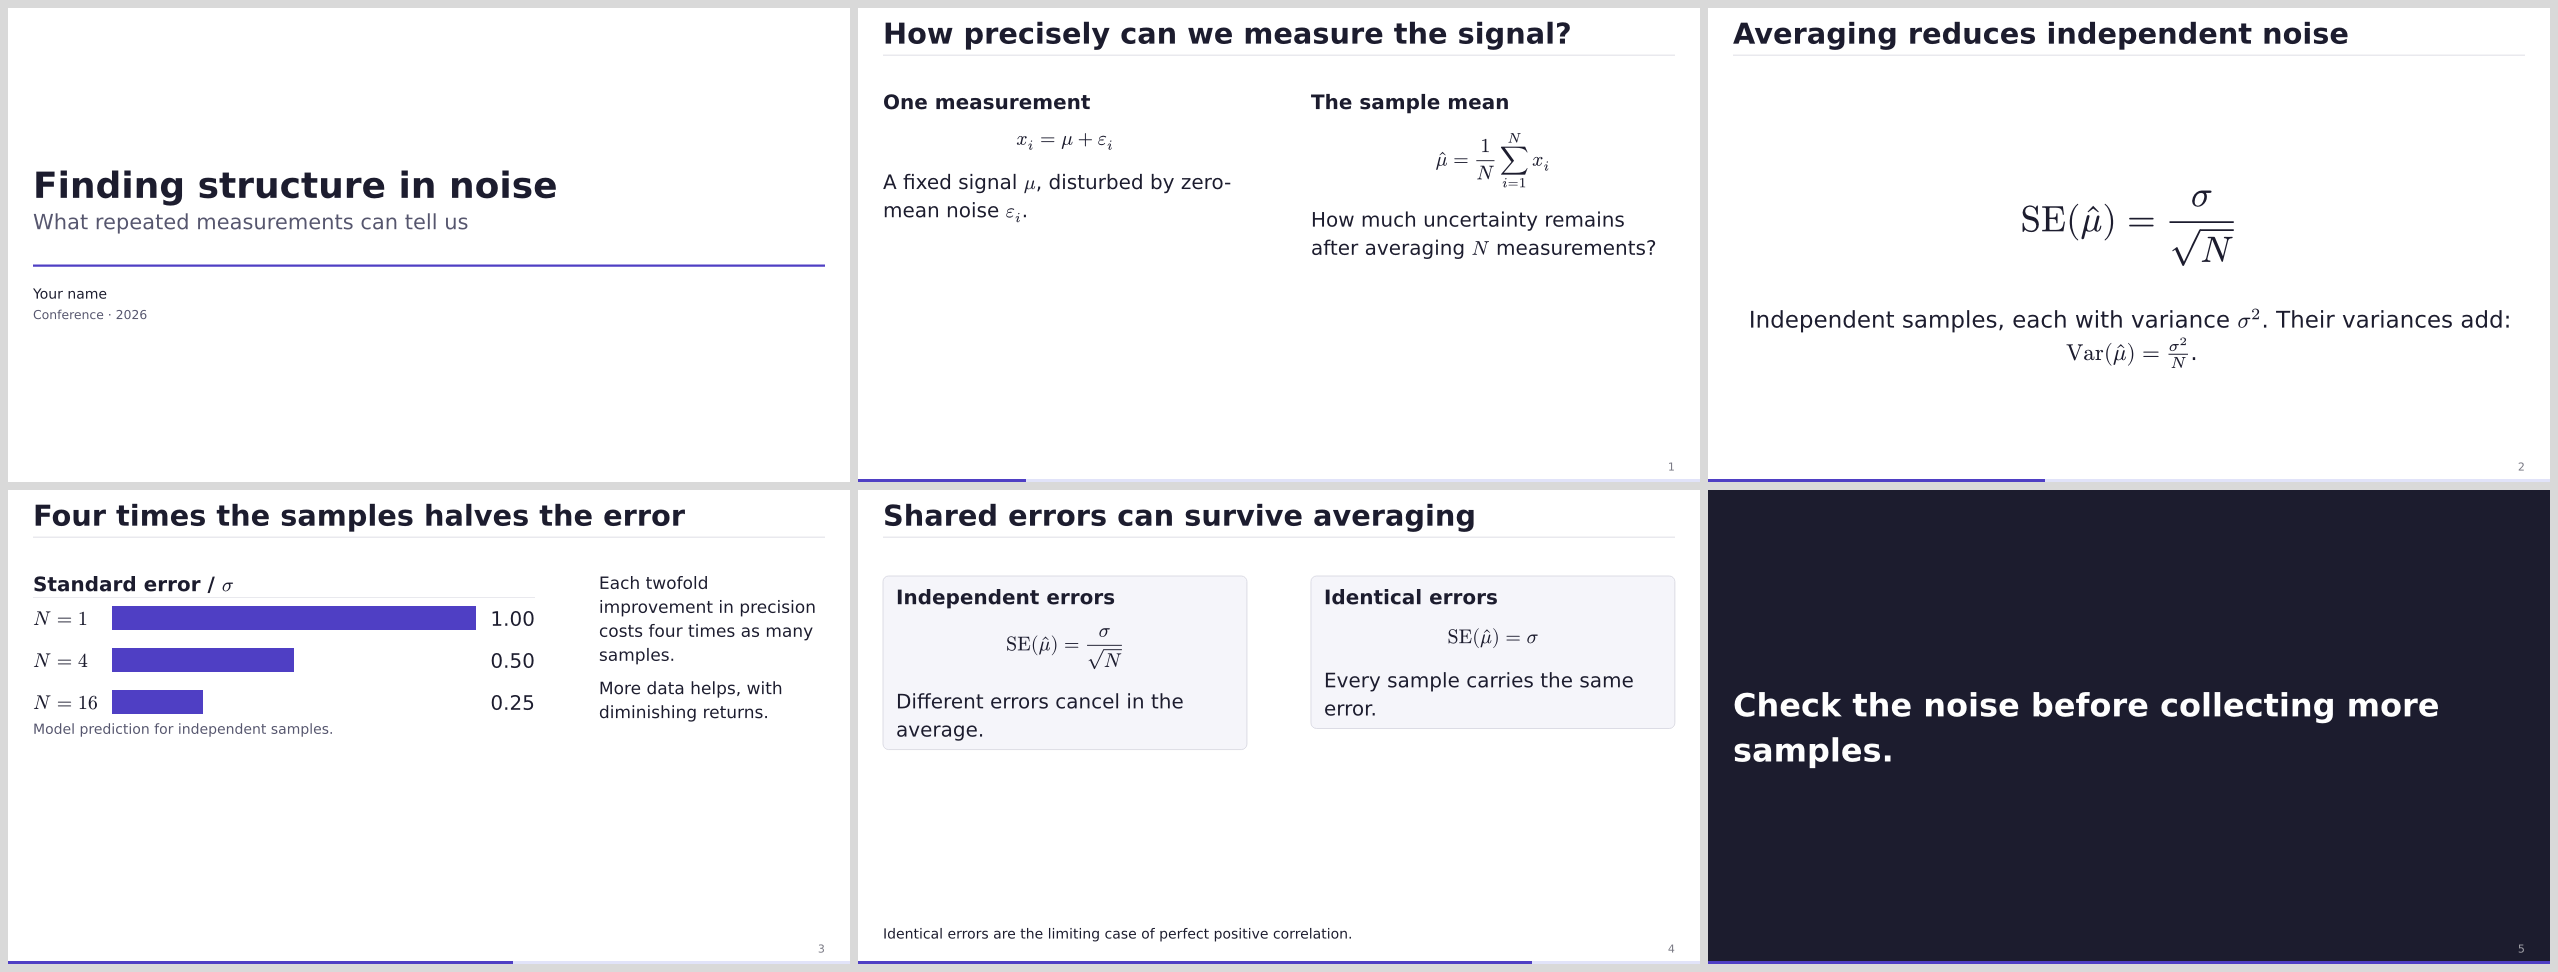
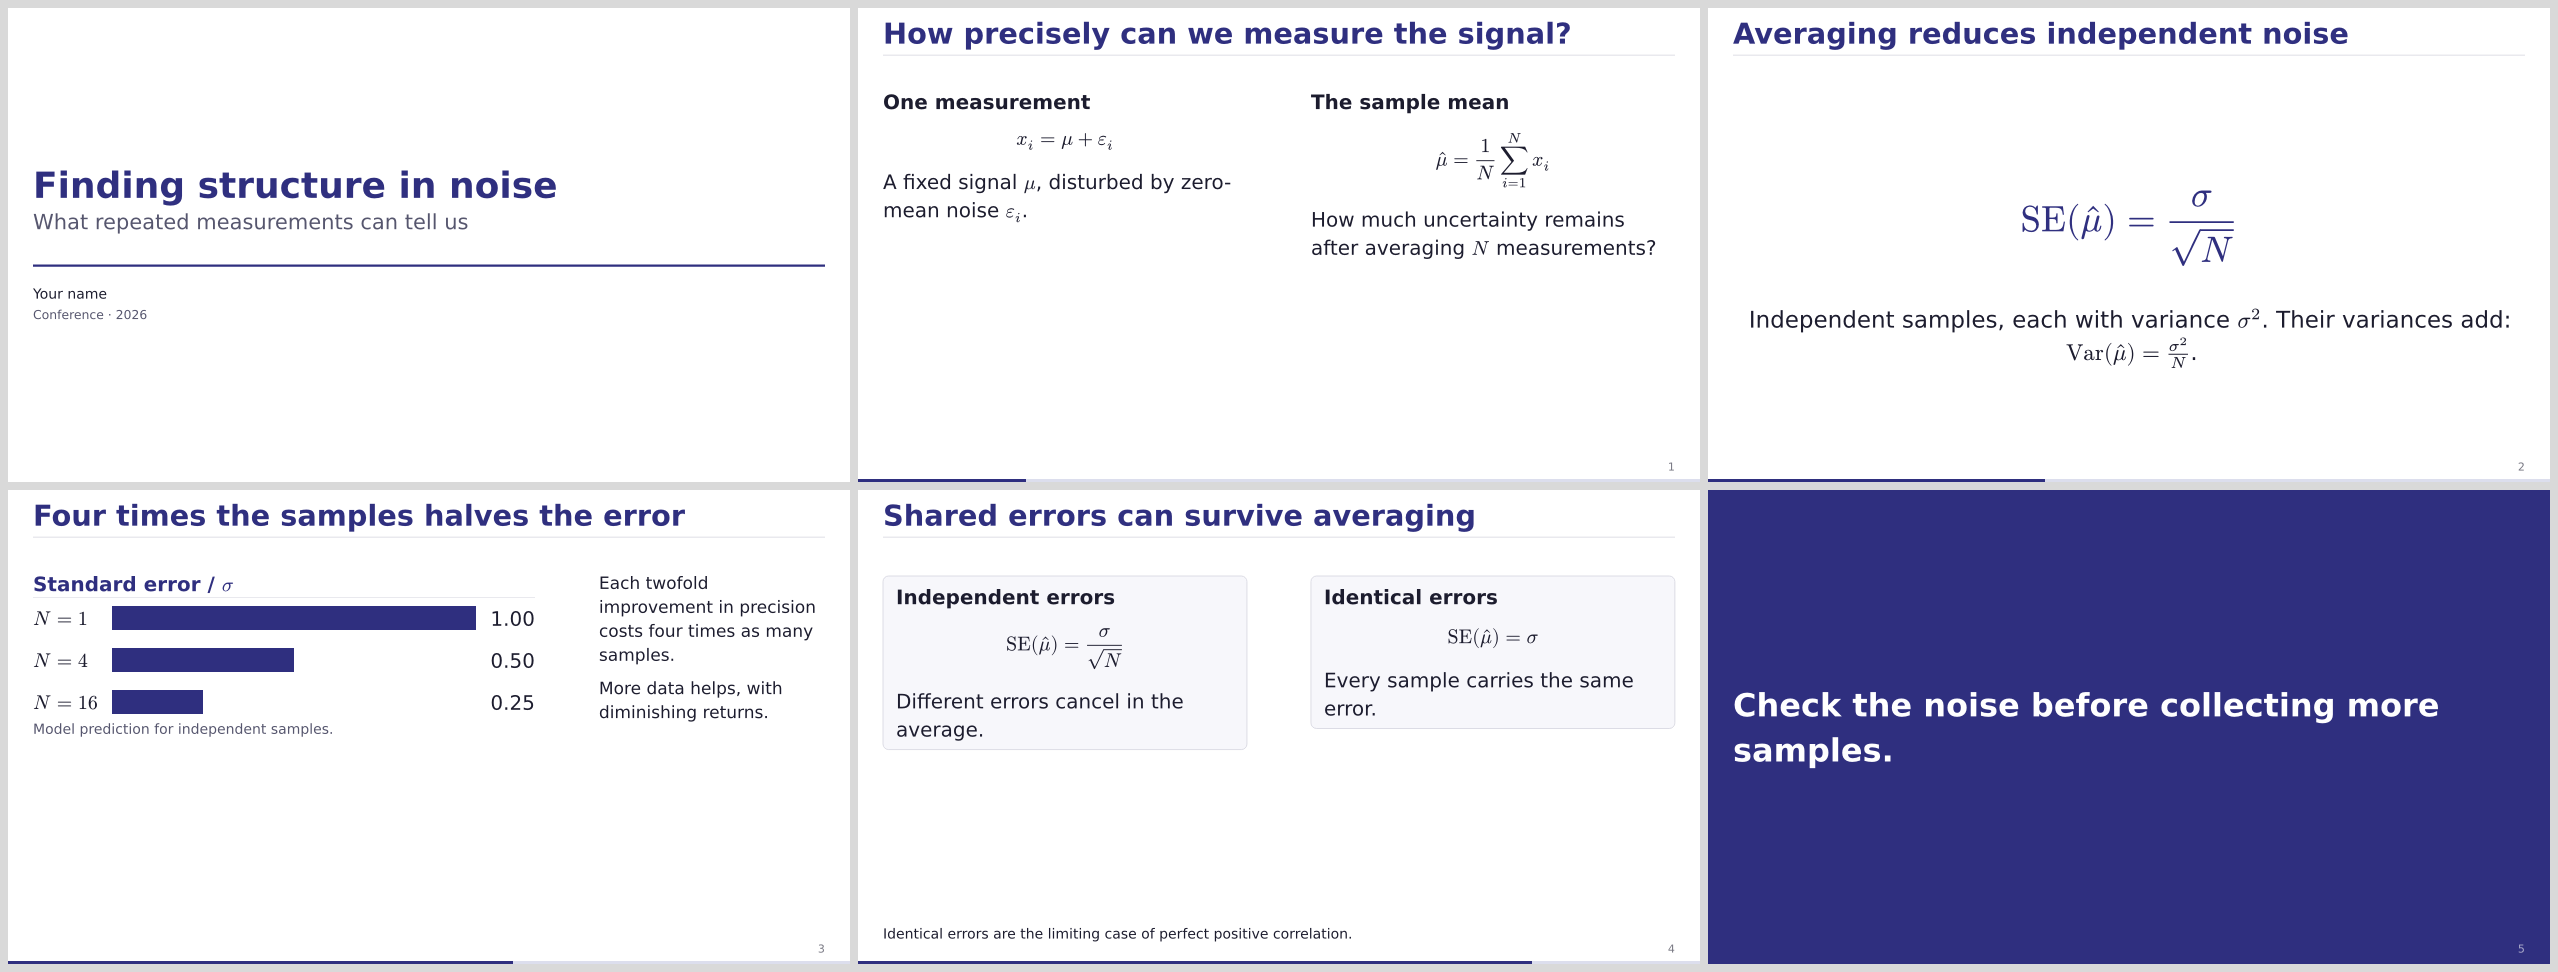
Paint headings, hero equations, and inverted focus with the accent
The academic palette's accent is sci-brain's original indigo again, and the
theme paints slide headings, the cover title, figbox titles, hero display
equations, and the ground of an inverted focus slide with the accent, so
the academic deck keeps its purple look instead of near-black type on a
text-colored focus ground.

diff --git a/README.md b/README.md
@@ -88,7 +88,7 @@ it.
 
 | Palette | Appearance |
 |---|---|
-| `academic` | Indigo on white |
+| `academic` | sci-brain's indigo on white |
 | `dark` | Pale ink and a gold accent on slate |
 | `minimal` | Black on white |
 | `vibrant` | Teal on white |
@@ -106,11 +106,16 @@ content-sized `header` cell; style a cell by its label.
 |---|---|---|
 | `spread` | `header`, `figure` (2fr), `commentary` | Evidence beside interpretation |
 | `hero` | `header`, `hero` | One centered equation or claim |
-| `focus` | `focus` | One sentence alone; pair with `invert: true` |
+| `focus` | `focus` | One sentence alone; with `invert: true`, knocked out on the accent |
 
 ```typst
 #show label("mosaic-cell-commentary"): set text(size: 0.8em)
 ```
+
+Headings, the cover title, and a display equation in the `hero` cell carry
+the accent, as sci-brain's ink did. An inverted `focus` slide takes the
+accent as its ground with the type knocked out in the canvas color; without
+`invert` it stays on the canvas.
 
 The header is optional: Mosaic fills the leading cells that have no default,
 so `#m.slide(sci.grids.spread)[figure][commentary]` leaves the heading band

diff --git a/CHANGELOG.md b/CHANGELOG.md
@@ -5,6 +5,9 @@
 First release: [sci-brain-slides](https://github.com/GiggleLiu/sci-brain-slides)
 rebuilt on [Mosaic](https://github.com/vincentarelbundock/mosaic).
 
+- Headings, the cover title, hero equations, and the ground of an inverted
+  focus slide carry the palette accent, so the academic palette keeps
+  sci-brain's indigo look.
 - One `setup`, five palettes (`academic`, `dark`, `minimal`, `vibrant`, and
   `brand(primary)`), three named-cell grids (`spread`, `hero`, `focus`).
 - Fourteen research components that go inside any cell: callout, figbox,
